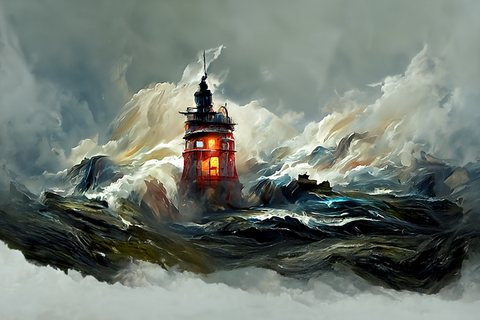
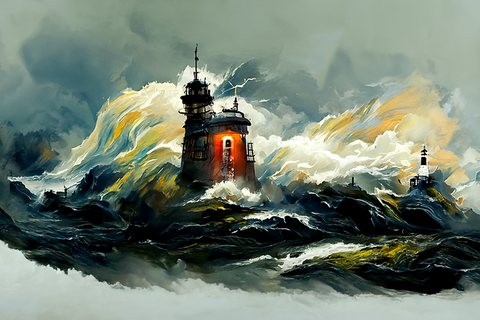
Show the new experiments in the README gallery
One lighthouse for each of the coherence critic, robust checker, One subject,
corrector steps and prompt routing, with the same prompt, seed and size as the
rest of the gallery. Borrowed attention's picture is redone with its new
default, Coarse layers, which keeps Disco's color.

diff --git a/README.md b/README.md
@@ -63,7 +63,8 @@ RTX 3070 8GB.
 Every render below uses the same prompt, *A beautiful painting of a lighthouse in a stormy sea*, the
 same seed, 768×512 and 200 steps, and changes only the option beside it. The guide images are
 abstract paintings and paint photos from [Pexels](https://www.pexels.com), not lighthouses, and are
-shown under their option. Each render took 4 to 5.5 minutes on an RTX 3070 8GB.
+shown under their option. Each render took 4 to 6 minutes on an RTX 3070 8GB. They use Prompt
+strength 20000 and Step limit 0.09, the earlier defaults; Nano now starts a little softer.
 
 ### Starting points and guides
 
@@ -131,7 +132,7 @@ shown under their option. Each render took 4 to 5.5 minutes on an RTX 3070 8GB.
     <td width="60%"><img src="docs/options/painters.jpg" width="100%" alt="Two painters"></td>
   </tr>
   <tr>
-    <td width="40%" valign="top"><b>Borrowed attention</b><br>Gives Disco Tiny SD's sense of which parts of the picture belong together.</td>
+    <td width="40%" valign="top"><b>Borrowed attention</b><br>Gives Disco Tiny SD's sense of which parts of the picture belong together. It borrows only at Disco's coarse layers by default, which keeps Disco's color.</td>
     <td width="60%"><img src="docs/options/borrow.jpg" width="100%" alt="Borrowed attention"></td>
   </tr>
   <tr>
@@ -145,6 +146,26 @@ shown under their option. Each render took 4 to 5.5 minutes on an RTX 3070 8GB.
   <tr>
     <td width="40%" valign="top"><b>Push momentum 0.7</b><br>Carries part of each step's push into the next. Higher values are wilder and more abstract.</td>
     <td width="60%"><img src="docs/options/momentum.jpg" width="100%" alt="Push momentum 0.7"></td>
+  </tr>
+  <tr>
+    <td width="40%" valign="top"><b>Coherence critic 0.6</b><br>Each view is also scored with its pieces shuffled, and the picture is pushed so the shuffled view scores worse. The prompt then only counts when it comes from how the parts fit together, which gives whole subjects.</td>
+    <td width="60%"><img src="docs/options/layout.jpg" width="100%" alt="Coherence critic 0.6"></td>
+  </tr>
+  <tr>
+    <td width="40%" valign="top"><b>Robust checker: FARE4 B/16</b><br>A checker trained to resist tiny changes leads the first third, so its push draws real shapes instead of streaks. Then the usual checkers take over for the paint.</td>
+    <td width="60%"><img src="docs/options/robust.jpg" width="100%" alt="Robust checker: FARE4 B/16"></td>
+  </tr>
+  <tr>
+    <td width="40%" valign="top"><b>One subject 1</b><br>Finds where the subject is in the picture and keeps it in one place, so it isn't repeated. The subject words here are <i>a lighthouse</i>.</td>
+    <td width="60%"><img src="docs/options/one_subject.jpg" width="100%" alt="One subject 1"></td>
+  </tr>
+  <tr>
+    <td width="40%" valign="top"><b>Corrector steps 1</b><br>An extra small step after each step early in the render, which settles the picture before it moves on. No extra VRAM, for about 45% more time.</td>
+    <td width="60%"><img src="docs/options/correct.jpg" width="100%" alt="Corrector steps 1"></td>
+  </tr>
+  <tr>
+    <td width="40%" valign="top"><b>Prompt routing: Split</b><br>For the first half, the subject, the prompt's first phrase, is scored on whole-image views and the style on close-ups. The subject forms once, and the paint covers everything.</td>
+    <td width="60%"><img src="docs/options/route.jpg" width="100%" alt="Prompt routing: Split"></td>
   </tr>
 </table>
 
